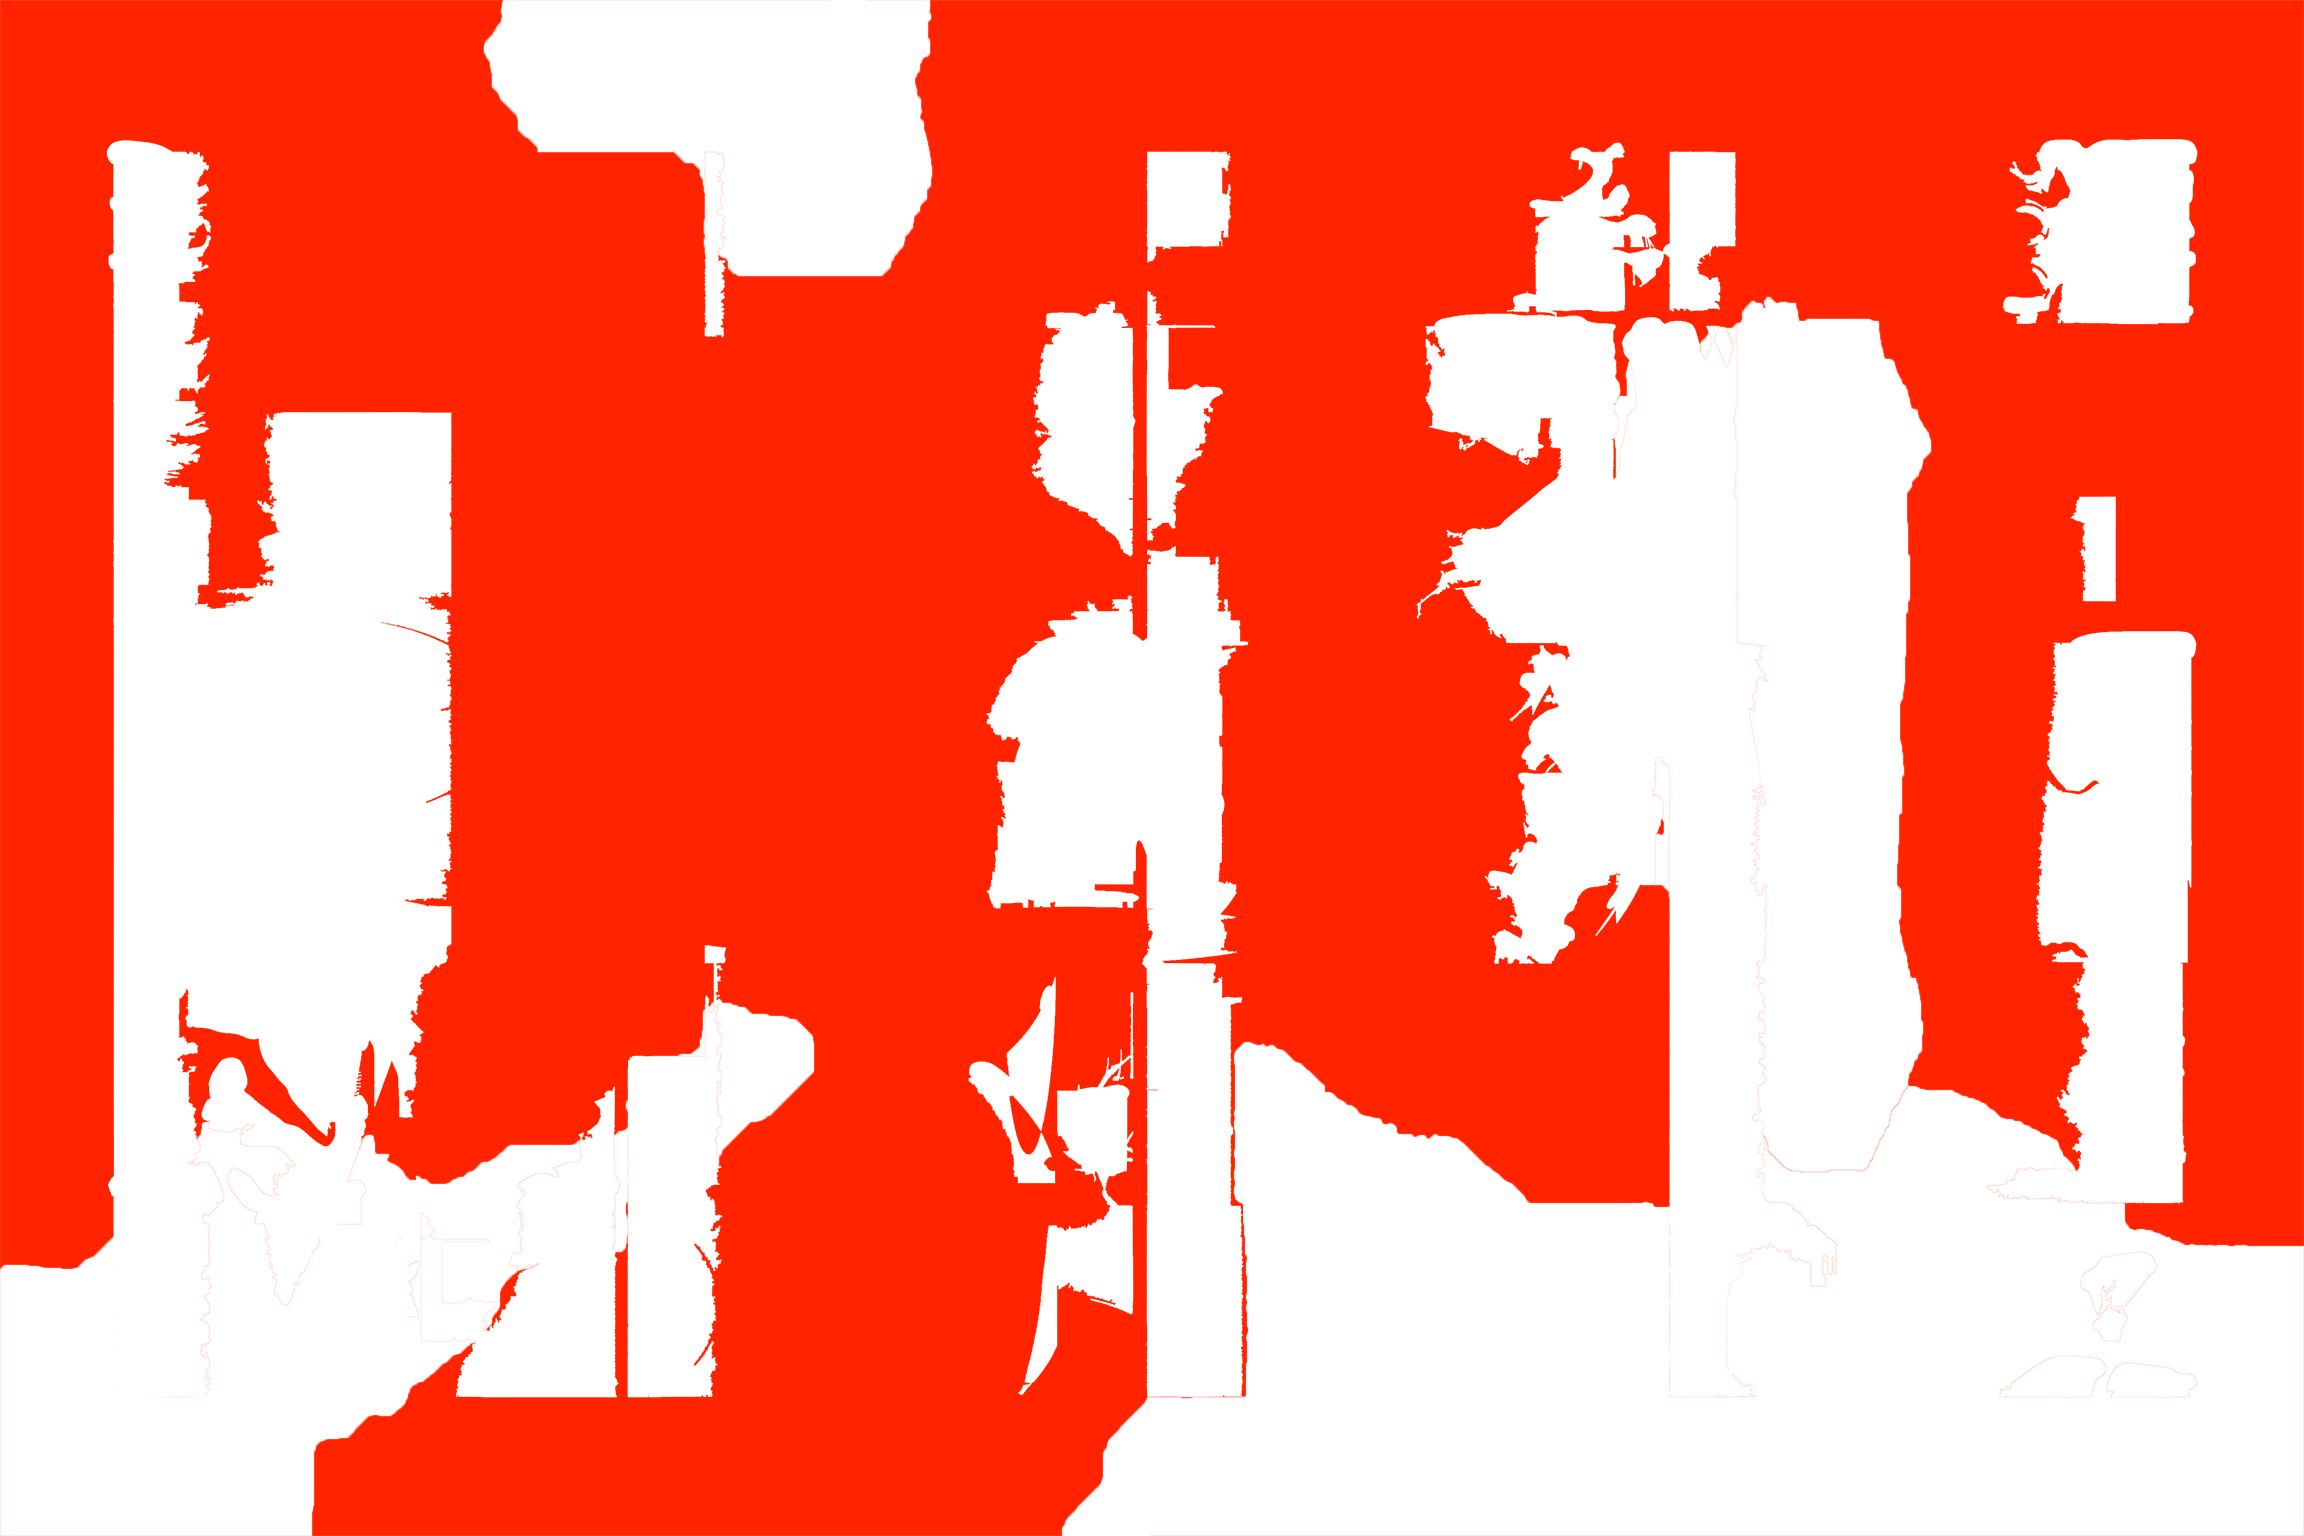
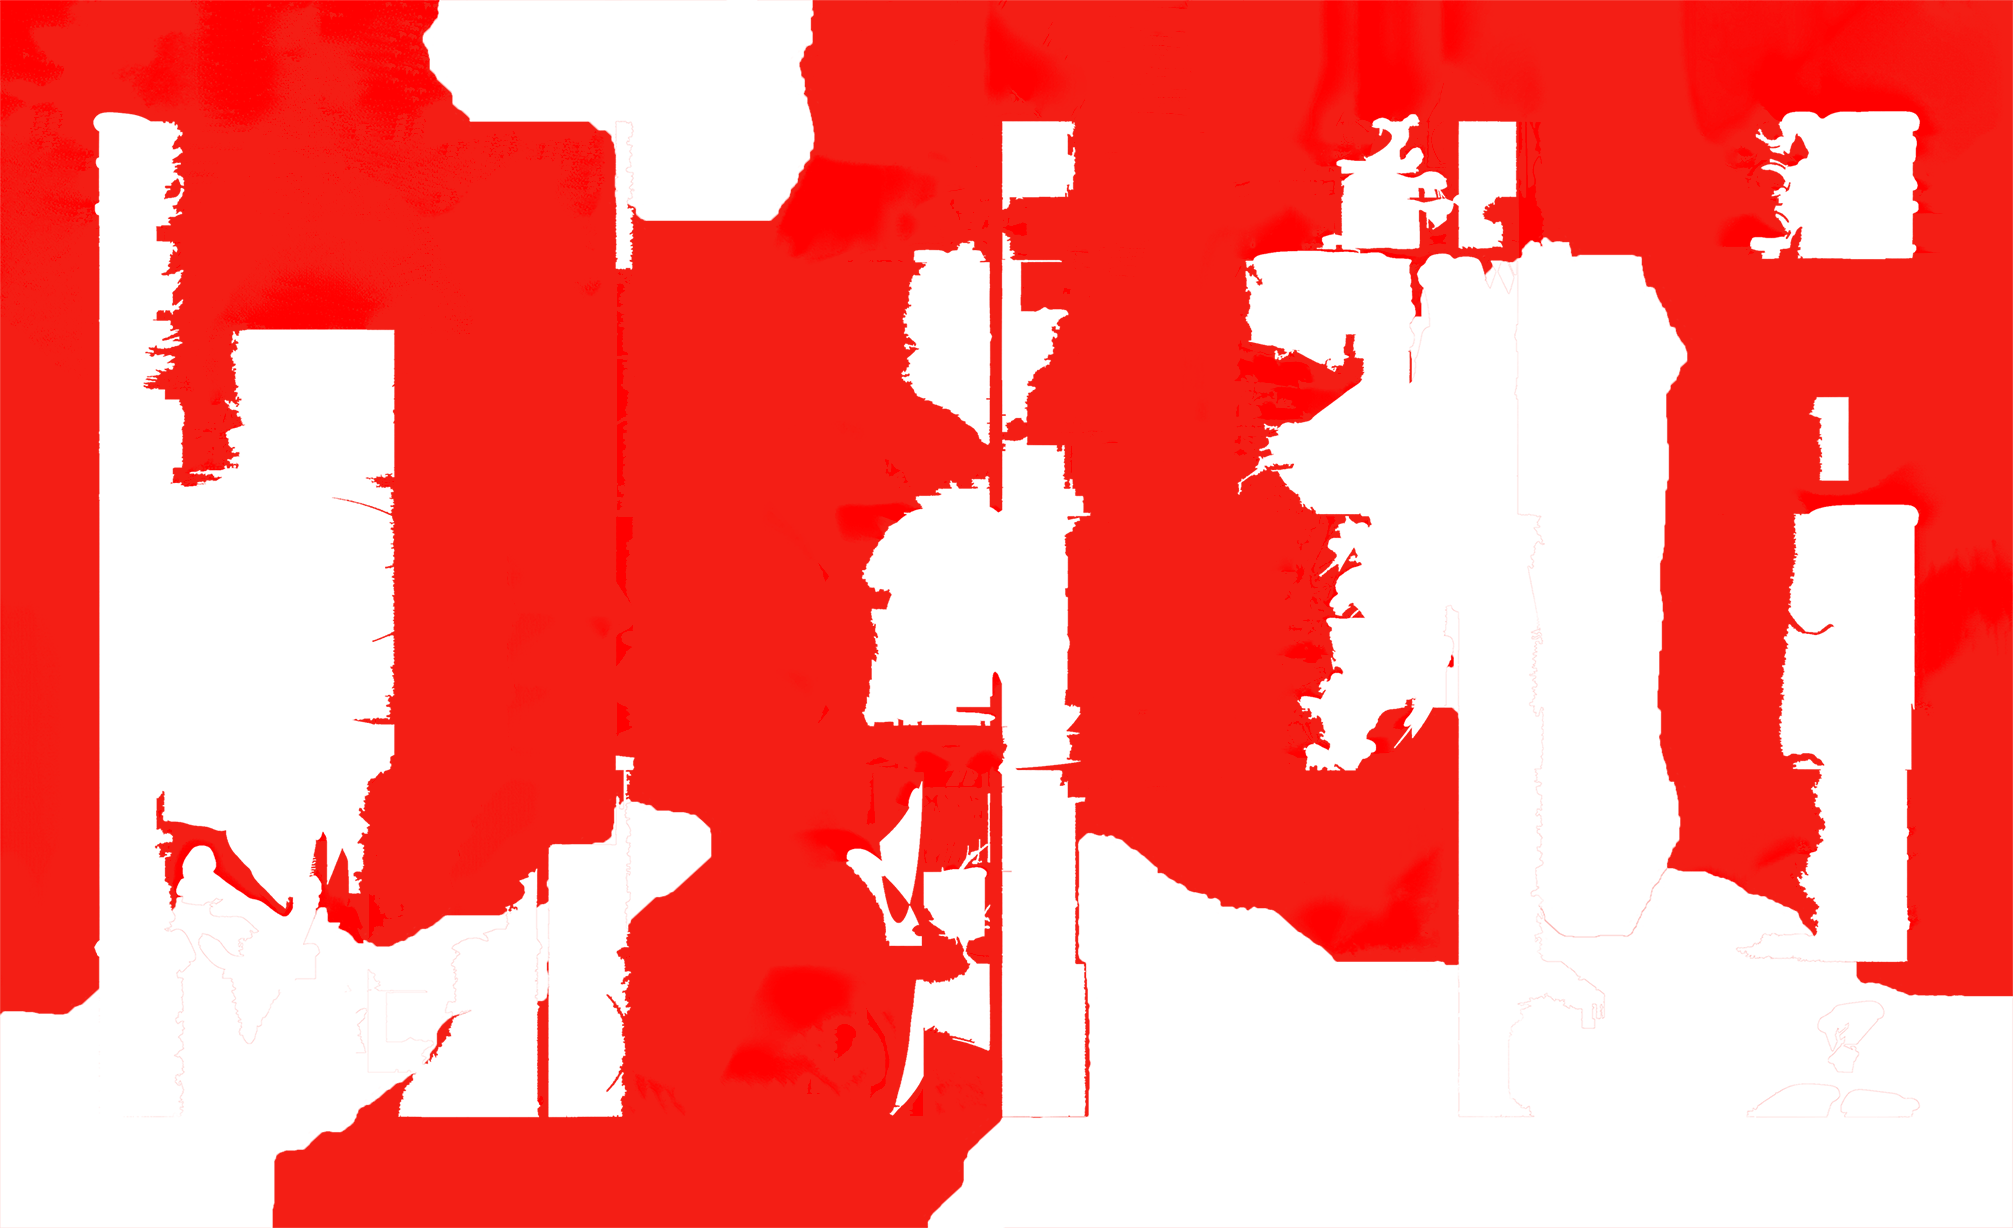
Stapel und Blur

diff --git a/js/main.js b/js/main.js
@@ -15,6 +15,7 @@ let imagesStapel = [];
 let currentProj = projBubbleElements[0];
 let currentValue;
 let table = document.querySelector(".index")
+let blurriness = 0
 
 
 let n = 0;
@@ -86,9 +87,11 @@ for (i = 0; i < projektKeys.length; i++) {
     indexrows[i].querySelector(".li-category").style.paddingLeft = r + "vw";
 
 }
+
+// +++++++ Durchscrollen ++++++
 let counter = 0;
 let indexAktiv = false;
-let cb = -30
+let cb = 20
 for (i = 0; i < projektKeys.length; i++) {
     projBubbleElements[i].style.filter = "blur(" + cb + "px)";
 }
@@ -116,11 +119,11 @@ document.addEventListener("wheel", (e) => {
 
     if (cb > -30) {
         indexAktiv = true;
-        projekteAktv = false;
+        projekteAktiv = false;
         if (cb > 0) {
             changetitle("Index")
         }
-        if (cb < 0) {
+        if (cb < 0 && projekte[current]) {
             changetitle(projekte[current].title)
         }
     } else {
@@ -128,20 +131,24 @@ document.addEventListener("wheel", (e) => {
         projekteAktv = true
 
     }
-    if (cb <= 20) {
+    if (cb <= 30) {
         table.style.display = "none";
-    } else if (cb >= 20) {
+    } else if (cb >= 30) {
         table.style.display = "grid";
     }
     for (i = 0; i < projektKeys.length; i++) {
-        projBubbleElements[i].style.filter = "blur(" + cb + "px)";
+        projBubbleElements[i].style.filter = "blur(" + (cb - 5) + "px)";
     }
 
     //++++++++  POJIS  +++++++++
+    removeBlur()
+    stapelSchliessen()
+
+
     if (counter % 6 == 0) {
         if (!indexAktiv) {
-
             nextProject()
+
         }
     } else {
         if (scrolldown) {
@@ -156,9 +163,11 @@ document.addEventListener("wheel", (e) => {
 
 })
 
+
+
+
 function nextProject() {
     if (scrolldown) {
-        stapelSchliessen()
         oberstesEntfernen()
         if (projektcounter != projBubbleElements.lenth - 1 && projektcounter < projBubbleElements.length) {
             projektcounter++
@@ -166,8 +175,6 @@ function nextProject() {
         einzelblur = 0;
 
     } else if (!scrolldown) {
-        stapelSchliessen()
-
         if (projektcounter != 0 && projektcounter <= projBubbleElements.length) {
             projektcounter--
         }
@@ -178,13 +185,9 @@ function nextProject() {
     current = projBubbleElements[projektcounter].id;
 
     changetitle(projekte[current].title)
-
-
-
 }
 
 function oberstesEntfernen() {
-
     for (let i = 0; i < projBubbleElements.length; i++) {
         const element = projBubbleElements[i];
 
@@ -192,14 +195,9 @@ function oberstesEntfernen() {
             element.classList.add("hide")
         }
     }
-
-
 }
 
 function neuesAnzeigen() {
-
-
-
     for (let i = 0; i < projBubbleElements.length; i++) {
         const element = projBubbleElements[i];
 
@@ -215,6 +213,7 @@ function neuesAnzeigen() {
 
 container.addEventListener("click", (e) => {
 
+    addBlur();
 
     if (n == 0 && projekteAktv && projekte[current].images[0]) {
         pTitle.innerHTML = pfeil + pTitle.textContent;
@@ -223,6 +222,8 @@ container.addEventListener("click", (e) => {
         stapelContainer.style.display = "block";
     }
 });
+
+// +++ weitere Bilder anzeigen ++++++
 
 stapelContainer.addEventListener("click", (e) => {
     if (n < projekte[current].images.length) {
@@ -257,67 +258,52 @@ function nextImage(e) {
     n++;
 }
 
-// ++++++++ Stapel schließen ++++++++
-
-// stapelContainer.addEventListener("click", (e) => {
-//   if (e.target == stapelContainer) {
-//     pTitle.innerHTML = pTitle.innerHTML.replace(pfeil, "");
-//     for (i = 0; i < imagesStapel.length; i++) {
-//       imagesStapel[i].parentNode.removeChild(imagesStapel[i]);
-//     }
-//     stapelContainer.style.display = "none";
-//     imagesStapel = [];
-//     n = 0;
-//   }
-// });
-
 
 
 closeButton.addEventListener("click", (e) => {
     stapelSchliessen()
-    console.log("hhojojoojj");
 
 });
 
 // ++++ About Seite und Header +++++++
-let tempCurr;
+// let tempCurr;
 
-title.addEventListener("mouseenter", (e) => {
-    if (stapelContainer.style.display != "block") {
-        tempCurr = pTitle.textContent;
+// title.addEventListener("mouseenter", (e) => {
+//     if (stapelContainer.style.display != "block") {
+//         tempCurr = pTitle.textContent;
 
-        pTitle.textContent = "Infos";
-    } else if (typeof infoText == "undefined") {
-        infoText = createNeuesElement("div", "pInfo", "pInfo");
-        stapelContainer.appendChild(infoText);
-        infoText.textContent = projekte[current].description;
-    }
-});
-title.addEventListener("mouseleave", (e) => {
-    if (stapelContainer.style.display != "block") {
-        pTitle.textContent = tempCurr;
-    } else if (typeof infoText != "undefined") {
-        infoText.parentNode.removeChild(infoText);
-        infoText = undefined;
-    }
-});
+//         pTitle.textContent = "Infos";
+//     } else if (typeof infoText == "undefined") {
+//         infoText = createNeuesElement("div", "pInfo", "pInfo");
+//         stapelContainer.appendChild(infoText);
+//         infoText.textContent = projekte[current].description;
+//     }
+// });
+// title.addEventListener("mouseleave", (e) => {
+//     if (stapelContainer.style.display != "block") {
+//         pTitle.textContent = tempCurr;
+//     } else if (typeof infoText != "undefined") {
+//         infoText.parentNode.removeChild(infoText);
+//         infoText = undefined;
+//     }
+// });
 
-title.addEventListener("click", (e) => {
-    if (stapelContainer.style.display != "block") {
-        tempCurr = pTitle.textContent;
-        aboutPage.style.display = "block";
-        pTitle.textContent = "Infos";
-        headBalken.style.pointerEvents = "none";
-    }
-});
+// title.addEventListener("click", (e) => {
+//     if (stapelContainer.style.display != "block") {
+//         tempCurr = pTitle.textContent;
+//         aboutPage.style.display = "block";
+//         pTitle.textContent = "Infos";
+//         headBalken.style.pointerEvents = "none";
+//     }
+// });
 
-aboutPage.addEventListener("click", (e) => {
-    if (stapelContainer.style.display != "block") {
-        aboutPage.style.display = "none";
-        pTitle.textContent = tempCurr;
-        headBalken.style.pointerEvents = "inherit";
-    }
-});
+// aboutPage.addEventListener("click", (e) => {
+//     if (stapelContainer.style.display != "block") {
+//         aboutPage.style.display = "none";
+//         pTitle.textContent = tempCurr;
+//         headBalken.style.pointerEvents = "inherit";
+//     }
+// });
 
 // ++++++ Helferfunktionen ++++++
 
@@ -368,4 +354,37 @@ function stapelSchliessen() {
 
 function changetitle(input) {
     pTitle.textContent = input
+}
+
+
+
+
+function addBlur() {
+
+    let addAnimation = setInterval(() => {
+        console.log(blurriness);
+
+        if (blurriness < 20) {
+            blurriness += 4
+            for (i = 0; i < projektKeys.length; i++) {
+                projBubbleElements[i].style.filter = "blur(" + blurriness + "px)";
+            }
+        } else {
+            clearInterval(addAnimation)
+        }
+    }, 20)
+}
+
+function removeBlur() {
+    let removeAnimation = setInterval(() => {
+        if (blurriness > 0) {
+            blurriness -= 4
+            for (i = 0; i < projektKeys.length; i++) {
+                projBubbleElements[i].style.filter = "blur(" + blurriness + "px)";
+            }
+        } else {
+            clearInterval(removeAnimation)
+
+        }
+    }, 20)
 }

diff --git a/style.css b/style.css
@@ -16,7 +16,6 @@ body {
     background-color: #eae2fa;
     font-size: 150%;
     color: black;
-    cursor: url(assets/SVG/plus.png) 2 2, pointer;
 }
 
 .form {
@@ -50,7 +49,6 @@ body {
     color: red;
     text-shadow: -0.5px 0 red, 0 0.5px red, 0.5px 0 red, 0 -1px red;
     text-transform: uppercase;
-    cursor: url(assets/SVG/plus.png) 2 2, pointer;
 }
 
 .name {
@@ -59,7 +57,7 @@ body {
 }
 
 .p-title {
-    padding: 0px 10px;
+    /* padding: 0px 10px; */
 }
 
 #title-wrapper {
@@ -83,7 +81,6 @@ body {
     position: absolute;
     z-index: 999;
     color: black;
-    cursor: url(assets/SVG/close.png) 2 2, pointer;
 }
 
 .headline {
@@ -159,6 +156,8 @@ body {
     width: 50vh;
     /* left: 3vw;
     top: 25vw; */
+    max-width: 100vw;
+    max-height: 100vh;
     display: block;
     position: fixed;
     text-align: center;
@@ -284,10 +283,10 @@ body {
 }
 
 #christine {
-    width: 90vw;
+    width: 80vw;
     height: auto;
-    max-height: 90vh;
-    top: 0;
+    max-height: 100vh;
+    top: -5vh;
     left: 5vw;
 }
 
@@ -304,7 +303,6 @@ body {
     bottom: 0;
     display: none;
     z-index: 100;
-    cursor: url(assets/SVG/close-w.png) 2 2, pointer;
 }
 
 .stapelBild {
@@ -319,7 +317,6 @@ body {
     display: block;
     object-fit: contain;
     transform-origin: top left;
-    cursor: url(assets/SVG/plus.png) 2 2, pointer;
 }
 
 .Stapeltext {
@@ -339,4 +336,9 @@ body {
 ::selection {
     background-color: none;
     color: white;
+}
+
+#index-julul {
+    color: rgb(180, 192, 231);
+    text-shadow: -0.5px 0 rgb(180, 192, 231), 0 0.5px rgb(180, 192, 231), 0.5px 0 rgb(180, 192, 231), 0 -1px rgb(180, 192, 231);
 }

diff --git a/projekte.js b/projekte.js
@@ -29,14 +29,6 @@ let projekte = {
 
         ]
     },
-    "brennes": {
-        "title": "Du brennst es",
-        "description": "",
-        "category": "Exhibition Booklet",
-        "year": "2020",
-        "background": "brennes.png",
-        "images": []
-    },
     "siebdruck": {
         "title": "La mer de Mars",
         "description": "",
@@ -203,6 +195,14 @@ let projekte = {
         "description": "",
         "category": "Magazine",
         "year": "2018",
+        "background": "nichtjetzt.png",
+        "images": []
+    },
+    "julul": {
+        "title": "Infos",
+        "description": "",
+        "category": "",
+        "year": "moin@julika-hother.de",
         "background": "nichtjetzt.png",
         "images": []
     }
